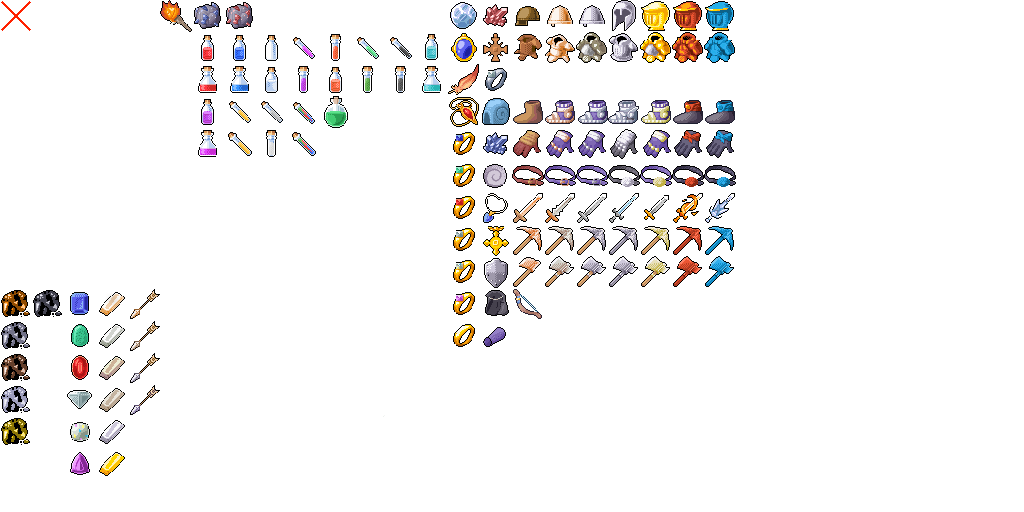
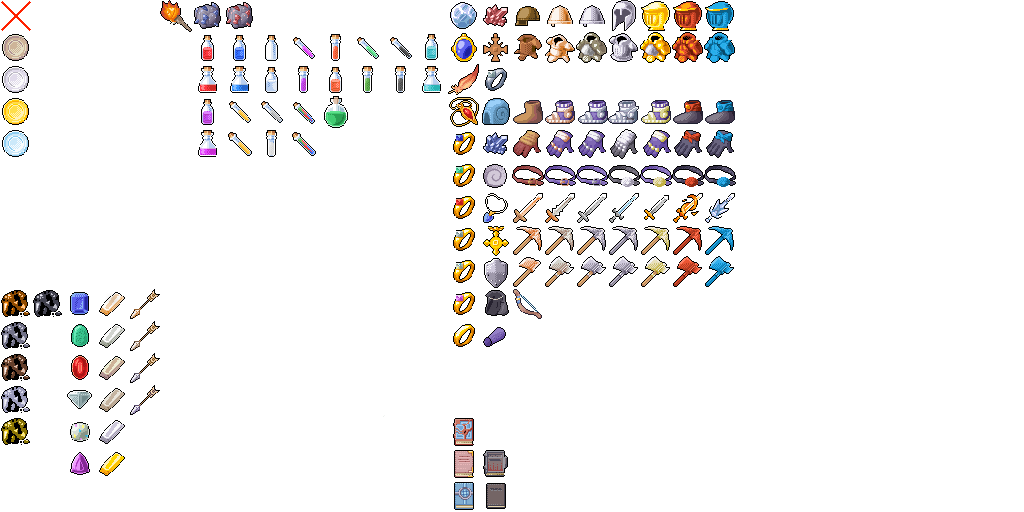
Additional content
Adds gemcrafting bench (needs texture)
Adds alchemy station.
Gems are now instances of ItemGem instead of Item.
Adds textures for coins.

Changed region(s): [[0.4375, 0.8125, 0.5, 1.0], [0.0, 0.0625, 0.0312, 0.3125]]

diff --git a/TerraeRasa/TerraeRasa/src/items/Item.java b/TerraeRasa/TerraeRasa/src/items/Item.java
@@ -270,66 +270,58 @@ public class Item extends ActionbarItem
 	public static Item silverOre = new Item(61).setIconPosition(0, 12).setName("Silver Ore");
 	public static Item goldOre = new Item(62).setIconPosition(0, 13).setName("Gold Ore");
 	public static Item coal = new Item(63).setIconPosition(1, 9).setName("Coal");
-	public static Item diamond = new Item(64).setIconPosition(2, 12).setName("Diamond");
-	public static Item ruby = new Item(65).setIconPosition(2, 11).setName("Ruby");
-	public static Item emerald = new Item(66).setIconPosition(2, 10).setName("Emerald");
-	public static Item sapphire = new Item(67).setIconPosition(2, 9).setName("Sapphire");
-	public static Item opal = new Item(68).setIconPosition(2, 13).setName("Opal");
-	public static Item jasper = new Item(69).setIconPosition(2, 14).setName("Jasper");
+	public static Item diamond = new ItemGem(64).setIconPosition(2, 12).setName("Diamond");
+	public static Item ruby = new ItemGem(65).setIconPosition(2, 11).setName("Ruby");
+	public static Item emerald = new ItemGem(66).setIconPosition(2, 10).setName("Emerald");
+	public static Item sapphire = new ItemGem(67).setIconPosition(2, 9).setName("Sapphire");
+	public static Item opal = new ItemGem(68).setIconPosition(2, 13).setName("Opal");
+	public static Item jasper = new ItemGem(69).setIconPosition(2, 14).setName("Jasper");
 	
 	public static Item copperHelmet = new ItemArmorHelmet(100).setArmorType(EnumArmor.COPPER).setIconPosition(16, 0).setName("Copper Helmet");
 	public static Item copperBody = new ItemArmorBody(101).setArmorType(EnumArmor.COPPER).setIconPosition(16, 1).setName("Copper Body");
-	public static Item copperPants = new ItemArmorPants(102).setArmorType(EnumArmor.COPPER).setIconPosition(16, 2).setName("Copper Legguards");
+	public static Item copperPants = new ItemArmorPants(102).setArmorType(EnumArmor.COPPER).setIconPosition(0, 0).setName("Copper Legguards");
 	public static Item copperBoots = new ItemArmorBoots(103).setArmorType(EnumArmor.COPPER).setIconPosition(16, 3).setName("Copper Boots");
 	public static Item copperGloves = new ItemArmorGloves(104).setArmorType(EnumArmor.COPPER).setIconPosition(16, 4).setName("Copper Gloves");
 	public static Item copperBelt = new ItemArmorBelt(105).setArmorType(EnumArmor.COPPER).setIconPosition(16, 5).setName("Copper Belt");
 	
 	public static Item bronzeHelmet = new ItemArmorHelmet(106).setArmorType(EnumArmor.BRONZE).setIconPosition(17, 0).setName("Bronze Helmet");
 	public static Item bronzeBody = new ItemArmorBody(107).setArmorType(EnumArmor.BRONZE).setIconPosition(17, 1).setName("Bronze Body");
-	public static Item bronzePants = new ItemArmorPants(108).setArmorType(EnumArmor.BRONZE).setIconPosition(17, 2).setName("Bronze Legguards");
+	public static Item bronzePants = new ItemArmorPants(108).setArmorType(EnumArmor.BRONZE).setIconPosition(0, 0).setName("Bronze Legguards");
 	public static Item bronzeBoots = new ItemArmorBoots(109).setArmorType(EnumArmor.BRONZE).setIconPosition(17, 3).setName("Bronze Boots");
 	public static Item bronzeGloves = new ItemArmorGloves(110).setArmorType(EnumArmor.BRONZE).setIconPosition(17, 4).setName("Bronze Gloves");
 	public static Item bronzeBelt = new ItemArmorBelt(111).setArmorType(EnumArmor.BRONZE).setIconPosition(17, 5).setName("Bronze Belt");
 	
 	public static Item ironHelmet = new ItemArmorHelmet(112).setArmorType(EnumArmor.IRON).setIconPosition(18, 0).setName("Iron Helmet");
 	public static Item ironBody = new ItemArmorBody(113).setArmorType(EnumArmor.IRON).setIconPosition(18, 1).setName("Iron Body");
-	public static Item ironPants = new ItemArmorPants(114).setArmorType(EnumArmor.IRON).setIconPosition(18, 2).setName("Iron Legguards");
+	public static Item ironPants = new ItemArmorPants(114).setArmorType(EnumArmor.IRON).setIconPosition(0, 0).setName("Iron Legguards");
 	public static Item ironBoots = new ItemArmorBoots(115).setArmorType(EnumArmor.IRON).setIconPosition(18, 3).setName("Iron Boots");
 	public static Item ironGloves = new ItemArmorGloves(116).setArmorType(EnumArmor.IRON).setIconPosition(18, 4).setName("Iron Gloves");
 	public static Item ironBelt = new ItemArmorBelt(117).setArmorType(EnumArmor.IRON).setIconPosition(18, 5).setName("Iron Belt");
 	
 	public static Item silverHelmet = new ItemArmorHelmet(118).setArmorType(EnumArmor.SILVER).setIconPosition(19, 0).setName("Silver Helmet");
 	public static Item silverBody = new ItemArmorBody(119).setArmorType(EnumArmor.SILVER).setIconPosition(19, 1).setName("Silver Body");
-	public static Item silverPants = new ItemArmorPants(120).setArmorType(EnumArmor.SILVER).setIconPosition(19, 2).setName("Silver Legguards");	
+	public static Item silverPants = new ItemArmorPants(120).setArmorType(EnumArmor.SILVER).setIconPosition(0, 0).setName("Silver Legguards");	
 	public static Item silverBoots = new ItemArmorBoots(121).setArmorType(EnumArmor.SILVER).setIconPosition(19, 3).setName("Silver Boots");
 	public static Item silverGloves = new ItemArmorGloves(122).setArmorType(EnumArmor.SILVER).setIconPosition(19, 4).setName("Silver Gloves");
 	public static Item silverBelt = new ItemArmorBelt(123).setArmorType(EnumArmor.SILVER).setIconPosition(19, 5).setName("Silver Belt");
 	
 	public static Item goldHelmet = new ItemArmorHelmet(124).setArmorType(EnumArmor.GOLD).setIconPosition(20, 0).setName("Gold Helmet").setItemQuality(EnumItemQuality.RARE);
 	public static Item goldBody = new ItemArmorBody(125).setArmorType(EnumArmor.GOLD).setIconPosition(20, 1).setName("Gold Body").setItemQuality(EnumItemQuality.RARE);
-	public static Item goldPants = new ItemArmorPants(126).setArmorType(EnumArmor.GOLD).setIconPosition(20, 2).setName("Gold Legguards").setItemQuality(EnumItemQuality.RARE);	
+	public static Item goldPants = new ItemArmorPants(126).setArmorType(EnumArmor.GOLD).setIconPosition(0, 0).setName("Gold Legguards").setItemQuality(EnumItemQuality.RARE);	
 	public static Item goldBoots = new ItemArmorBoots(127).setArmorType(EnumArmor.GOLD).setIconPosition(20, 3).setName("Gold Boots");
 	public static Item goldGloves = new ItemArmorGloves(128).setArmorType(EnumArmor.GOLD).setIconPosition(20, 4).setName("Gold Gloves");
 	public static Item goldBelt = new ItemArmorBelt(129).setArmorType(EnumArmor.GOLD).setIconPosition(20, 5).setName("Gold Belt");
 	
-	public static Item lunariumHelmet = new ItemArmorHelmet(130).setArmorType(EnumArmor.LUNARIUM).PassiveBonuses(new PassiveBonus[]{
-			new PassiveBonusIntellect(5), new PassiveBonusCriticalStrike(0.03)
+	public static Item lunariumHelmet = new ItemArmorHelmet(130).setArmorType(EnumArmor.LUNARIUM).setIntellect(5).PassiveBonuses(new PassiveBonus[]{
+			new PassiveBonusCriticalStrike(0.03)
 	}).setIconPosition(22, 0).setName("Lunarium Crown");
-	public static Item lunariumBody = new ItemArmorBody(131).setArmorType(EnumArmor.LUNARIUM).PassiveBonuses(new PassiveBonus[]{
-			new PassiveBonusIntellect(3)
-	}).setIconPosition(22, 1).setName("Lunarum Robe");
-	public static Item lunariumPants = new ItemArmorPants(132).setArmorType(EnumArmor.LUNARIUM).PassiveBonuses(new PassiveBonus[]{
-			new PassiveBonusIntellect(3)
-	}).setIconPosition(22, 2).setName("Lunarium Pants");	
-	public static Item lunariumBoots = new ItemArmorBoots(133).setArmorType(EnumArmor.LUNARIUM).PassiveBonuses(new PassiveBonus[]{
-			new PassiveBonusIntellect(3), new PassiveBonusSpeed(0.03)
+	public static Item lunariumBody = new ItemArmorBody(131).setArmorType(EnumArmor.LUNARIUM).setIntellect(3).setIconPosition(22, 1).setName("Lunarum Robe");
+	public static Item lunariumPants = new ItemArmorPants(132).setArmorType(EnumArmor.LUNARIUM).setIntellect(3).setIconPosition(22, 2).setName("Lunarium Pants");	
+	public static Item lunariumBoots = new ItemArmorBoots(133).setArmorType(EnumArmor.LUNARIUM).setIntellect(3).PassiveBonuses(new PassiveBonus[]{
+			new PassiveBonusSpeed(0.03)
 	}).setIconPosition(22, 3).setName("Lunarium Boots");
-	public static Item lunariumGloves = new ItemArmorGloves(134).setArmorType(EnumArmor.LUNARIUM).PassiveBonuses(new PassiveBonus[]{
-			new PassiveBonusIntellect(3)
-	}).setIconPosition(22, 4).setName("Lunarium Gloves");
-	public static Item lunariumBelt = new ItemArmorBelt(135).setArmorType(EnumArmor.LUNARIUM).PassiveBonuses(new PassiveBonus[]{
-			new PassiveBonusIntellect(3)
-	}).setIconPosition(22, 5).setName("Lunarium Belt");
+	public static Item lunariumGloves = new ItemArmorGloves(134).setArmorType(EnumArmor.LUNARIUM).setIntellect(3).setIconPosition(22, 4).setName("Lunarium Gloves");
+	public static Item lunariumBelt = new ItemArmorBelt(135).setArmorType(EnumArmor.LUNARIUM).setIntellect(3).setIconPosition(22, 5).setName("Lunarium Belt");
 	
 	public static Item rocketBoots = new ItemArmorAccessory(136).setIconPosition(0, 0).setName("Rocket Boots");	
 	public static Item ringOfVigor = new ItemArmorAccessory(137).PassiveBonuses(new PassiveBonus[]{ 
@@ -402,10 +394,10 @@ public class Item extends ActionbarItem
 	public static Item t6Belt = new ItemArmorBelt(199).setArmorType(EnumArmor.TIER6).setTotalSockets(4).setIntellect(5).setStamina(10).setStrength(5).setDexterity(5).setIconPosition(21, 5).setName("TIER6 Belt");
 	
 	
-	public static Item copperCoin = new ItemCoin(200).setIconPosition(0, 0).setName("Copper Coin");
-	public static Item silverCoin = new ItemCoin(201).setIconPosition(0, 0).setName("Silver Coin");
-	public static Item goldCoin = new ItemCoin(202).setIconPosition(0, 0).setName("Gold Coin");
-	public static Item platinumCoin = new ItemCoin(203).setIconPosition(0, 0).setName("Platinum Coin");
+	public static Item copperCoin = new ItemCoin(200).setIconPosition(0, 1).setName("Copper Coin");
+	public static Item silverCoin = new ItemCoin(201).setIconPosition(0, 2).setName("Silver Coin");
+	public static Item goldCoin = new ItemCoin(202).setIconPosition(0, 3).setName("Gold Coin");
+	public static Item platinumCoin = new ItemCoin(203).setIconPosition(0, 4).setName("Platinum Coin");
 		
 	public static Item woodenArrow = new ItemAmmo(300).setProjectile(new EntityProjectile(7, 1, 1, 8f).setSpriteIndex(0, 1).setIsFriendly(true)).setIconPosition(4, 9).setName("Wooden Arrow");
 	public static Item bronzeArrow = new ItemAmmo(301).setProjectile(new EntityProjectile(10, 1, 1, 8f).setSpriteIndex(0, 2).setIsFriendly(true)).setIconPosition(4, 10).setName("Bronze Arrow");

diff --git a/TerraeRasa/TerraeRasa/src/client/GameEngine.java b/TerraeRasa/TerraeRasa/src/client/GameEngine.java
@@ -23,6 +23,7 @@ import utils.LightUtils;
 import world.World;
 import world.WorldHell;
 import world.WorldSky;
+import affix.AffixSturdy;
 import audio.SoundEngine;
 import blocks.Block;
 import entities.EntityPlayer;
@@ -318,9 +319,9 @@ public class GameEngine
 			
 			player.inventory.pickUpItemStack(world, player, new ItemStack(Block.stone, 100));
 			player.inventory.pickUpItemStack(world, player, new ItemStack(Block.torch, 100));
-			player.inventory.pickUpItemStack(world, player, new ItemStack(Block.chest, 100));
+//			player.inventory.pickUpItemStack(world, player, new ItemStack(Block.chest, 100));
 
-			player.inventory.pickUpItemStack(world, player, new ItemStack(Block.ironChest, 100));
+//			player.inventory.pickUpItemStack(world, player, new ItemStack(Block.ironChest, 100));
 
 			player.inventory.pickUpItemStack(world, player, new ItemStack(Item.goldIngot, 100));
 			player.inventory.pickUpItemStack(world, player, new ItemStack(Item.silverIngot, 100));
@@ -368,32 +369,32 @@ public class GameEngine
 			player.inventory.pickUpItemStack(world, player, new ItemStack(Item.jasper));
 			player.inventory.pickUpItemStack(world, player, new ItemStack(Item.sapphire));
 			player.inventory.pickUpItemStack(world, player, new ItemStack(Item.emerald));
-			player.inventory.pickUpItemStack(world, player, new ItemStack(Item.rubyRing));
+			player.inventory.pickUpItemStack(world, player, new ItemStack(Item.ruby));
 			player.inventory.pickUpItemStack(world, player, new ItemStack(Item.diamond));
 			player.inventory.pickUpItemStack(world, player, new ItemStack(Item.opal));
 			player.inventory.pickUpItemStack(world, player, new ItemStack(Item.goldRing, 6));
 			player.inventory.pickUpItemStack(world, player, new ItemStack(Item.berserkersEssence));
 			
-			player.inventory.pickUpItemStack(world, player, new ItemStack(Block.glass, 40));
+//			player.inventory.pickUpItemStack(world, player, new ItemStack(Block.glass, 40));
 
-			player.inventory.pickUpItemStack(world, player, new ItemStack(Item.snowball, 100));
+//			player.inventory.pickUpItemStack(world, player, new ItemStack(Item.snowball, 100));
 //			player.inventory.pickUpItemStack(world, player, new ItemStack(Item.vialEmpty, 100));
 //			player.inventory.pickUpItemStack(world, player, new ItemStack(Item.vialOfWater, 100));
 			
 			
-			player.inventory.pickUpItemStack(world, player, new ItemStack(Item.goldSword));
+//			player.inventory.pickUpItemStack(world, player, new ItemStack(Item.goldSword));
 //			player.inventory.pickUpItemStack(world, player, new ItemStack(Item.silverSword));
 //			player.inventory.pickUpItemStack(world, player, new ItemStack(Item.ironSword));
 //			player.inventory.pickUpItemStack(world, player, new ItemStack(Item.bronzeSword));
 //			player.inventory.pickUpItemStack(world, player, new ItemStack(Item.copperSword));
 //			
-			player.inventory.pickUpItemStack(world, player, new ItemStack(Item.goldPickaxe));
+//			player.inventory.pickUpItemStack(world, player, new ItemStack(Item.goldPickaxe));
 //			player.inventory.pickUpItemStack(world, player, new ItemStack(Item.silverPickaxe));
 //			player.inventory.pickUpItemStack(world, player, new ItemStack(Item.ironPickaxe));
 //			player.inventory.pickUpItemStack(world, player, new ItemStack(Item.bronzePickaxe));
 //			player.inventory.pickUpItemStack(world, player, new ItemStack(Item.copperPickaxe));
 //			
-			player.inventory.pickUpItemStack(world, player, new ItemStack(Item.goldAxe));
+//			player.inventory.pickUpItemStack(world, player, new ItemStack(Item.goldAxe));
 //			player.inventory.pickUpItemStack(world, player, new ItemStack(Item.silverAxe));
 //			player.inventory.pickUpItemStack(world, player, new ItemStack(Item.ironAxe));
 //			player.inventory.pickUpItemStack(world, player, new ItemStack(Item.bronzeAxe));
@@ -406,19 +407,19 @@ public class GameEngine
 			player.inventory.pickUpItemStack(world, player, new ItemStack(Item.t6Gloves));
 			player.inventory.pickUpItemStack(world, player, new ItemStack(Item.t6Boots));
 			player.inventory.pickUpItemStack(world, player, new ItemStack(Item.t6Belt));
-			player.inventory.pickUpItemStack(world, player, new ItemStack(Item.lunariumHelmet));
+			player.inventory.pickUpItemStack(world, player, new ItemStack(Item.lunariumHelmet).setAffix(new AffixSturdy()));
 			player.inventory.pickUpItemStack(world, player, new ItemStack(Item.lunariumBody));
 			player.inventory.pickUpItemStack(world, player, new ItemStack(Item.lunariumPants));
 			player.inventory.pickUpItemStack(world, player, new ItemStack(Item.lunariumGloves));
 			player.inventory.pickUpItemStack(world, player, new ItemStack(Item.lunariumBoots));
 			player.inventory.pickUpItemStack(world, player, new ItemStack(Item.lunariumBelt));
-			player.inventory.pickUpItemStack(world, player, new ItemStack(Item.mastersBracer));
-			player.inventory.pickUpItemStack(world, player, new ItemStack(Item.steadfastShield));
+			player.inventory.pickUpItemStack(world, player, new ItemStack(Block.gemcraftingBench));
+			player.inventory.pickUpItemStack(world, player, new ItemStack(Block.alchemyStation));
 			player.inventory.pickUpItemStack(world, player, new ItemStack(Item.eaglesFeather));
 			player.inventory.pickUpItemStack(world, player, new ItemStack(Item.woodenArrow, 50));
 			
-			player.inventory.pickUpItemStack(world, player, new ItemStack(Item.gemSmartheal1, 40));
-			player.inventory.pickUpItemStack(world, player, new ItemStack(Item.gemDefense1, 40));
+//			player.inventory.pickUpItemStack(world, player, new ItemStack(Item.gemSmartheal1, 40));
+//			player.inventory.pickUpItemStack(world, player, new ItemStack(Item.gemDefense1, 40));
 			
 //			player.inventory.pickUpItemStack(world, player, new ItemStack(Item.ironHelmet));
 //			player.inventory.pickUpItemStack(world, player, new ItemStack(Item.ironBody));
@@ -434,14 +435,14 @@ public class GameEngine
 //			player.inventory.pickUpItemStack(world, player, new ItemStack(Item.bronzeBoots));
 //			player.inventory.pickUpItemStack(world, player, new ItemStack(Item.bronzeBelt));
 			
-			player.inventory.pickUpItemStack(world, player, new ItemStack(Item.copperHelmet));
-			player.inventory.pickUpItemStack(world, player, new ItemStack(Item.copperBody));
-			player.inventory.pickUpItemStack(world, player, new ItemStack(Item.copperPants));
-			player.inventory.pickUpItemStack(world, player, new ItemStack(Item.copperGloves));
-			player.inventory.pickUpItemStack(world, player, new ItemStack(Item.copperBoots));
-			player.inventory.pickUpItemStack(world, player, new ItemStack(Item.copperBelt));
+//			player.inventory.pickUpItemStack(world, player, new ItemStack(Item.copperHelmet));
+//			player.inventory.pickUpItemStack(world, player, new ItemStack(Item.copperBody));
+//			player.inventory.pickUpItemStack(world, player, new ItemStack(Item.copperPants));
+//			player.inventory.pickUpItemStack(world, player, new ItemStack(Item.copperGloves));
+//			player.inventory.pickUpItemStack(world, player, new ItemStack(Item.copperBoots));
+//			player.inventory.pickUpItemStack(world, player, new ItemStack(Item.copperBelt));
 
-			player.inventory.pickUpItemStack(world, player, new ItemStack(Item.absorbPotion2, 200));
+//			player.inventory.pickUpItemStack(world, player, new ItemStack(Item.absorbPotion2, 200));
 
 //			player.inventory.pickUpItemStack(world, player, new ItemStack(Item.snowball));
 //			player.inventory.pickUpItemStack(world, player, new ItemStack(Item.woodenArrow, 100));

diff --git a/TerraeRasa/TerraeRasa/src/utils/RecipeManager.java b/TerraeRasa/TerraeRasa/src/utils/RecipeManager.java
@@ -225,6 +225,12 @@ public class RecipeManager
 	Recipe furnace = new Recipe(this, new ItemStack(Block.furnace), Block.craftingTable, new ItemStack[] {
 		new ItemStack(Block.stone, 15), new ItemStack(Item.coal, 5)
 	});	
+	Recipe gemcraftingBench = new Recipe(this, new ItemStack(Block.gemcraftingBench), Block.craftingTable, new ItemStack[] {
+		new ItemStack(Block.craftingTable), new ItemStack(Block.stone, 10), new ItemStack(Item.silverIngot, 2) 
+	});	
+	Recipe alchemyStation = new Recipe(this, new ItemStack(Block.alchemyStation), Block.craftingTable, new ItemStack[] {
+		new ItemStack(Block.stone, 20), new ItemStack(Item.vialEmpty), new ItemStack(Item.coal)
+	});	
 	Recipe chest = new Recipe(this, new ItemStack(Block.chest), Block.craftingTable, new ItemStack[] {
 		new ItemStack(Block.plank, 20) 
 	});	
@@ -264,54 +270,54 @@ public class RecipeManager
 	Recipe vial = new Recipe(this, new ItemStack(Item.vialOfWater), Block.craftingTable, new ItemStack[]{
 		new ItemStack(Block.glass, 2)
 	});
-	
-	// Gemcrafting Bench (currently crafting bench)
 	Recipe goldRing = new Recipe(this, new ItemStack(Item.goldRing), Block.craftingTable, new ItemStack[]{
 		new ItemStack(Item.goldIngot, 2)
 	});
-	Recipe frenziedRubyRing1 = new Recipe(this, new ItemStack(Item.rubyRing).setAffix(new AffixFrenzied()), Block.craftingTable, new ItemStack[]{
+	
+	// Gemcrafting Bench (currently crafting bench)	
+	Recipe frenziedRubyRing1 = new Recipe(this, new ItemStack(Item.rubyRing).setAffix(new AffixFrenzied()), Block.gemcraftingBench, new ItemStack[]{
 		new ItemStack(Item.berserkersEssence), new ItemStack(Item.rubyRing)
 	});
-	Recipe frenziedRuby = new Recipe(this, new ItemStack(Item.ruby).setAffix(new AffixFrenzied()), Block.craftingTable, new ItemStack[]{
+	Recipe frenziedRuby = new Recipe(this, new ItemStack(Item.ruby).setAffix(new AffixFrenzied()), Block.gemcraftingBench, new ItemStack[]{
 		new ItemStack(Item.berserkersEssence), new ItemStack(Item.ruby)
 	});
-	Recipe sturdyOpalRing = new Recipe(this, new ItemStack(Item.opalRing).setAffix(new AffixSturdy()), Block.craftingTable, new ItemStack[]{
+	Recipe sturdyOpalRing = new Recipe(this, new ItemStack(Item.opalRing).setAffix(new AffixSturdy()), Block.gemcraftingBench, new ItemStack[]{
 		new ItemStack(Item.steadfastShield), new ItemStack(Item.opalRing)
 	});
-	Recipe sturdyRuby = new Recipe(this, new ItemStack(Item.opal).setAffix(new AffixSturdy()), Block.craftingTable, new ItemStack[]{
+	Recipe sturdyRuby = new Recipe(this, new ItemStack(Item.opal).setAffix(new AffixSturdy()), Block.gemcraftingBench, new ItemStack[]{
 		new ItemStack(Item.steadfastShield), new ItemStack(Item.opal)
 	});
 	
-	Recipe sapphireRing = new Recipe(this, new ItemStack(Item.sapphireRing), Block.craftingTable, new ItemStack[]{
+	Recipe sapphireRing = new Recipe(this, new ItemStack(Item.sapphireRing), Block.gemcraftingBench, new ItemStack[]{
 		new ItemStack(Item.goldRing), new ItemStack(Item.sapphire)
 	});
-	Recipe emeraldRing = new Recipe(this, new ItemStack(Item.emeraldRing), Block.craftingTable, new ItemStack[]{
+	Recipe emeraldRing = new Recipe(this, new ItemStack(Item.emeraldRing), Block.gemcraftingBench, new ItemStack[]{
 		new ItemStack(Item.goldRing), new ItemStack(Item.emerald)
 	});
-	Recipe rubyRing = new Recipe(this, new ItemStack(Item.rubyRing), Block.craftingTable, new ItemStack[]{
+	Recipe rubyRing = new Recipe(this, new ItemStack(Item.rubyRing), Block.gemcraftingBench, new ItemStack[]{
 		new ItemStack(Item.goldRing), new ItemStack(Item.ruby)
 	});
-	Recipe diamondRing = new Recipe(this, new ItemStack(Item.diamondRing), Block.craftingTable, new ItemStack[]{
+	Recipe diamondRing = new Recipe(this, new ItemStack(Item.diamondRing), Block.gemcraftingBench, new ItemStack[]{
 		new ItemStack(Item.goldRing), new ItemStack(Item.diamond)
 	});
-	Recipe opalRing = new Recipe(this, new ItemStack(Item.opalRing), Block.craftingTable, new ItemStack[]{
+	Recipe opalRing = new Recipe(this, new ItemStack(Item.opalRing), Block.gemcraftingBench, new ItemStack[]{
 		new ItemStack(Item.goldRing), new ItemStack(Item.opal)
 	});
-	Recipe jasperRing = new Recipe(this, new ItemStack(Item.jasperRing), Block.craftingTable, new ItemStack[]{
+	Recipe jasperRing = new Recipe(this, new ItemStack(Item.jasperRing), Block.gemcraftingBench, new ItemStack[]{
 		new ItemStack(Item.goldRing), new ItemStack(Item.jasper)
 	});
 	
 	//Alchemy Station (currently crafting bench)
-	Recipe healingPotion1 = new Recipe(this, new ItemStack(Item.healthPotion1), Block.craftingTable, new ItemStack[]{
+	Recipe healingPotion1 = new Recipe(this, new ItemStack(Item.healthPotion1), Block.alchemyStation, new ItemStack[]{
 		new ItemStack(Item.vialOfWater), new ItemStack(Item.healingHerb1)
 	});
-	Recipe healingPotion2 = new Recipe(this, new ItemStack(Item.healthPotion2), Block.craftingTable, new ItemStack[]{
+	Recipe healingPotion2 = new Recipe(this, new ItemStack(Item.healthPotion2), Block.alchemyStation, new ItemStack[]{
 		new ItemStack(Item.vialOfWater), new ItemStack(Item.healingHerb2)
 	});
-	Recipe magicPotion1 = new Recipe(this, new ItemStack(Item.manaPotion1), Block.craftingTable, new ItemStack[]{
+	Recipe magicPotion1 = new Recipe(this, new ItemStack(Item.manaPotion1), Block.alchemyStation, new ItemStack[]{
 		new ItemStack(Item.vialOfWater), new ItemStack(Item.magicHerb1)
 	});
-	Recipe magicPotion2 = new Recipe(this, new ItemStack(Item.manaPotion2), Block.craftingTable, new ItemStack[]{
+	Recipe magicPotion2 = new Recipe(this, new ItemStack(Item.manaPotion2), Block.alchemyStation, new ItemStack[]{
 		new ItemStack(Item.vialOfWater), new ItemStack(Item.magicHerb2)
 	});
 	

diff --git a/TerraeRasa/TerraeRasa/src/affix/Affix.java b/TerraeRasa/TerraeRasa/src/affix/Affix.java
@@ -6,6 +6,12 @@ import java.util.Vector;
 import passivebonuses.PassiveBonus;
 import auras.Aura;
 
+/**
+ * Provides the basic infrastructure for creating affixes.
+ * In addition to the intializing constructor, this class contains the getters and setters important for functioning.
+ * @author Matthew Robertson
+ *
+ */
 public class Affix{
 	
 	protected Random rng;
@@ -14,6 +20,11 @@ public class Affix{
 	private Vector<Aura> auras;
 	private boolean prefix;
 	
+	/**
+	 * The default constructor for Affixes. This is not to be used alone, as it won't actually do anything.
+	 * Initializes all of the variables and sets the name, nothing more.
+	 * @param name is the name of the affix
+	 */
 	public Affix(String name){
 		this.name = name;
 		rng = new Random();
@@ -47,6 +58,11 @@ public class Affix{
 		return this;
 	}
 	
+	/**
+	 * Sets whether the name of the affix is a Prefix or suffix.
+	 * @param flag - true for prefix, false for suffix.
+	 * @return the affix
+	 */
 	public Affix setPrefix(boolean flag){
 		prefix = flag;
 		return this;

diff --git a/TerraeRasa/TerraeRasa/src/io/TextureLoader.java b/TerraeRasa/TerraeRasa/src/io/TextureLoader.java
@@ -216,8 +216,8 @@ public class TextureLoader
 		        {
 		        	w = (int)list[i].textureWidth;
 			        h = (int)list[i].textureHeight;
-			        x = (int) (list[i].iconOverrideX * 16);
-			        y = (int) (list[i].iconOverrideY * 16);
+			        x = (int) (list[i].iconOverrideX * 32);
+			        y = (int) (list[i].iconOverrideY * 32);
 			        bufferStore[i] = itemSheet.getSubimage(x, y, w, h);
 		        	
 		        }
@@ -308,10 +308,10 @@ public class TextureLoader
 	        textureStore[i] = new Texture(textureID);
 	        glBindTexture(GL11.GL_TEXTURE_2D, textureID);
 	        
-	        int w = 16;
-	        int h = 16;
-	        int x = (int) (list2[i].iconX * 16);
-	        int y = (int) (list2[i].iconY * 16);
+	        int w = 32;
+	        int h = 32;
+	        int x = (int) (list2[i].iconX * 32);
+	        int y = (int) (list2[i].iconY * 32);
 	        
 	        bufferStore[i] = itemSheet.getSubimage(x, y, w, h);
 	        

diff --git a/TerraeRasa/TerraeRasa/src/blocks/Block.java b/TerraeRasa/TerraeRasa/src/blocks/Block.java
@@ -742,7 +742,14 @@ public class Block extends ActionbarItem
 	public static Block ironChest = new BlockChest(80, 40)
 			.setName("Iron Chest").setBothBlockWidthAndHeight(2, 2)
 			.setBlockHardness(40.0f).setIconIndex(11, 1).setBlockType(2);
-
+	
+	public static Block gemcraftingBench = new Block(81).setName("Gemcrafting table")
+			.setBlockHardness(50.0f).setIconIndex(0, 0).setBlockType(1)
+			.setBothBlockWidthAndHeight(2, 2);
+	public static Block alchemyStation = new Block(82).setName("Alchemy station")
+			.setBlockHardness(50.0f).setIconIndex(12, 23).setBlockType(2)
+			.setBothBlockWidthAndHeight(2, 2);
+	
 	// Backwalls
 	public static Block backAir = new BlockBackWall(128).setIsSolid(false)
 			.setName("backwall air");

diff --git a/TerraeRasa/TerraeRasa/src/utils/CraftingManager.java b/TerraeRasa/TerraeRasa/src/utils/CraftingManager.java
@@ -31,6 +31,8 @@ public class CraftingManager
 	{ 
 		Block.craftingTable,
 		Block.furnace,
+		Block.alchemyStation,
+		Block.gemcraftingBench
 	};
 	
 	/**
